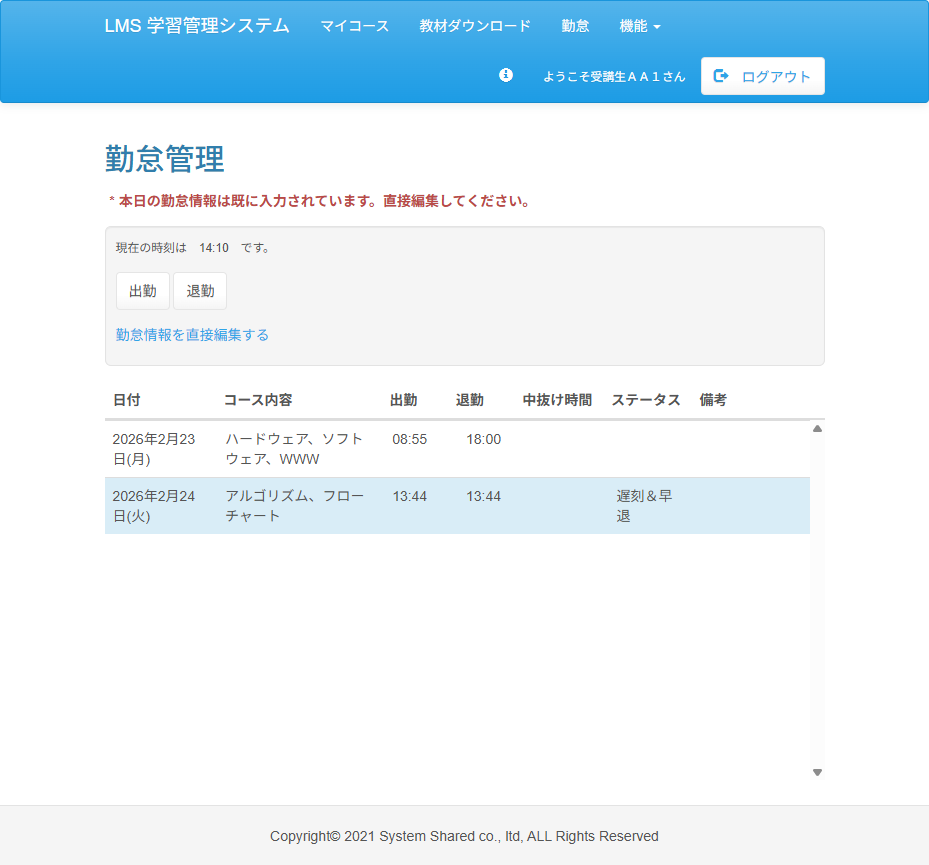
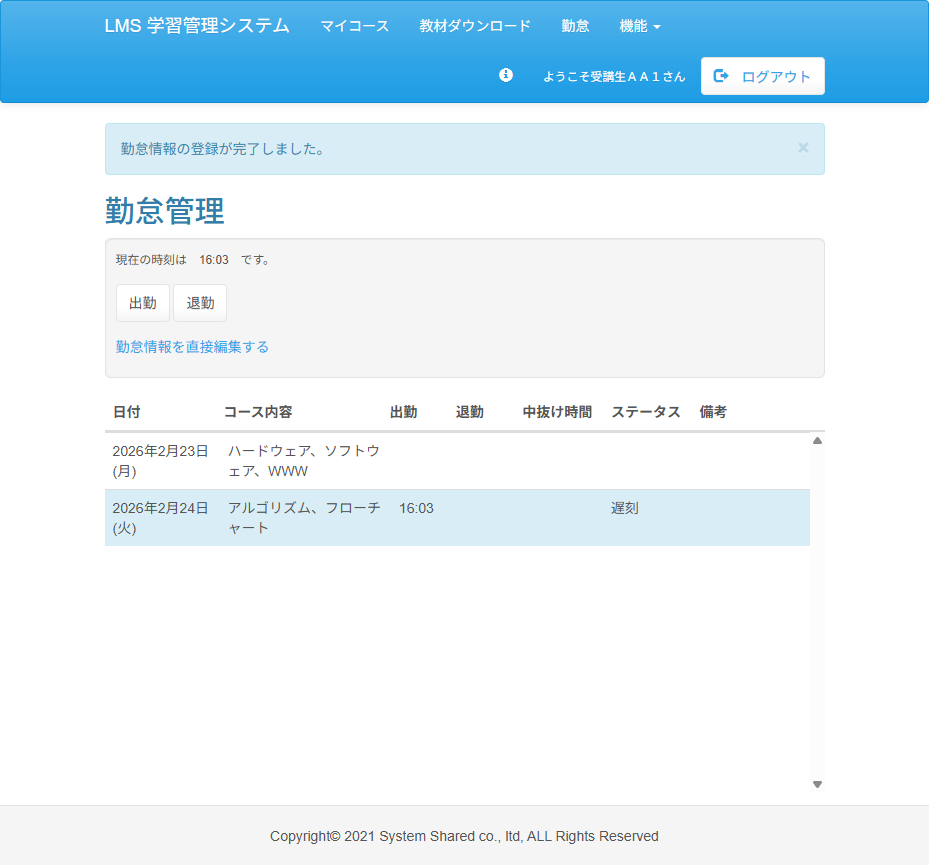
add:Case11.java 受講生勤怠直接編集正常系のテストコード作成
test01、02、03はCase10のtest01、02、03と同じため割愛

test04()メソッド
WebElementを利用し、「勤怠情報を直接編集する」リンクを押下し、勤怠情報直接変更画面に遷移
タイトルとURLが期待値通りかを確認するテストを作成した。
【期待値は以下の通り】
タイトル：勤怠情報変更｜LMS
URL：http://localhost:8000/lms/attendance/update

test05()メソッド
SelectとWebElementを利用し、以下の入力値を入力。
「更新」ボタンを押下し、勤怠管理画面に遷移。
タイトルと入力した値が期待値通りかを確認するテストを作成した。
【入力値は以下の通り】
2月23日
出勤(時)：08
出勤(分)：55
退勤(時)：18
退勤(分)：00

2月24日
「定時」ボタンを押下

【期待値は以下の通り】
タイトル：勤怠情報変更｜LMS
2月23日
出勤時間：08:55
退勤時間：18:00
2月24日
出勤時間：09:00
退勤時間：18:00

Changed region(s): [[0.0936, 0.437, 0.9053, 0.6555], [0.0936, 0.1249, 0.9053, 0.4058]]

diff --git a/test_code_creation_oshimayuki/src/test/java/jp/co/sss/lms/ct/f04_attendance/Case11.java b/test_code_creation_oshimayuki/src/test/java/jp/co/sss/lms/ct/f04_attendance/Case11.java
@@ -1,6 +1,7 @@
 package jp.co.sss.lms.ct.f04_attendance;
 
 import static jp.co.sss.lms.ct.util.WebDriverUtils.*;
+import static org.junit.jupiter.api.Assertions.*;
 
 import org.junit.jupiter.api.AfterAll;
 import org.junit.jupiter.api.BeforeAll;
@@ -9,6 +10,8 @@ import org.junit.jupiter.api.MethodOrderer.OrderAnnotation;
 import org.junit.jupiter.api.Order;
 import org.junit.jupiter.api.Test;
 import org.junit.jupiter.api.TestMethodOrder;
+import org.openqa.selenium.By;
+import org.openqa.selenium.support.ui.Select;
 
 /**
  * 結合テスト 勤怠管理機能
@@ -35,35 +38,90 @@ public class Case11 {
 	@Order(1)
 	@DisplayName("テスト01 トップページURLでアクセス")
 	void test01() {
-		// TODO ここに追加
+		webDriver.get("http://localhost:8000/lms");
+		assertEquals("ログイン | LMS", webDriver.getTitle());
+		assertEquals("ログイン", webDriver.findElement(By.tagName("h2")).getText());
+		getEvidence(new Object() {});
 	}
 
 	@Test
 	@Order(2)
 	@DisplayName("テスト02 初回ログイン済みの受講生ユーザーでログイン")
 	void test02() {
-		// TODO ここに追加
+		webDriver.findElement(By.id("loginId")).sendKeys("StudentAA01");
+		webDriver.findElement(By.id("password")).sendKeys("TestUser001");
+		webDriver.findElement(By.className("btn-primary")).click();
+
+		assertEquals("コース詳細 | LMS", webDriver.getTitle());
+		assertEquals("http://localhost:8000/lms/course/detail", webDriver.getCurrentUrl());
+		getEvidence(new Object() {});
 	}
 
 	@Test
 	@Order(3)
 	@DisplayName("テスト03 上部メニューの「勤怠」リンクから勤怠管理画面に遷移")
 	void test03() {
-		// TODO ここに追加
+		webDriver.findElement(By.linkText("勤怠")).click();
+		
+		pageLoadTimeout(30);
+	
+		webDriver.switchTo().alert().accept();
+		
+		pageLoadTimeout(20);
+		
+		assertEquals("勤怠情報変更｜LMS", webDriver.getTitle());
+		assertEquals("http://localhost:8000/lms/attendance/detail", webDriver.getCurrentUrl());
+		assertTrue(webDriver.findElement(By.tagName("td")).isDisplayed());
+		
+		getEvidence(new Object() {});
 	}
 
 	@Test
 	@Order(4)
 	@DisplayName("テスト04 「勤怠情報を直接編集する」リンクから勤怠情報直接変更画面に遷移")
 	void test04() {
-		// TODO ここに追加
+		webDriver.findElement(By.linkText("勤怠情報を直接編集する")).click();
+		
+		pageLoadTimeout(10);
+		
+		assertEquals("勤怠情報変更｜LMS", webDriver.getTitle());
+		assertEquals("http://localhost:8000/lms/attendance/update", webDriver.getCurrentUrl());
+		
+		getEvidence(new Object() {});
 	}
 
 	@Test
 	@Order(5)
 	@DisplayName("テスト05 すべての研修日程の勤怠情報を正しく更新し勤怠管理画面に遷移")
 	void test05() {
-		// TODO ここに追加
+		final Select selectStartHour = new Select(webDriver.findElement(By.xpath("//*[@id=\"startHour0\"]")));
+		selectStartHour.selectByVisibleText("08");
+		final Select selectStartMinute = new Select(webDriver.findElement(By.xpath("//*[@id=\"startMinute0\"]")));
+		selectStartMinute.selectByVisibleText("55");
+		
+		final Select selectEndHour = new Select(webDriver.findElement(By.xpath("//*[@id=\"endHour0\"]")));
+		selectEndHour.selectByVisibleText("18");
+		final Select selectEndMinute = new Select(webDriver.findElement(By.xpath("//*[@id=\"endMinute0\"]")));
+		selectEndMinute.selectByVisibleText("00");
+		
+		webDriver.findElement(By.xpath("//*[@id=\"main\"]/div/div/form/table/tbody/tr[2]/td[3]")).click();
+		
+		scrollBy("1200");
+		webDriver.findElement(By.name("complete")).click();
+		
+		pageLoadTimeout(30);
+		
+		webDriver.switchTo().alert().dismiss();
+		
+		pageLoadTimeout(30);
+		
+		assertEquals("勤怠情報変更｜LMS", webDriver.getTitle());
+		assertEquals("08:55", webDriver.findElement(By.xpath("//*[@id=\"main\"]/div[3]/div/table/tbody/tr[1]/td[3]")).getText());
+		assertEquals("18:00", webDriver.findElement(By.xpath("//*[@id=\"main\"]/div[3]/div/table/tbody/tr[1]/td[4]")).getText());
+		assertEquals("09:00", webDriver.findElement(By.xpath("//*[@id=\"main\"]/div[3]/div/table/tbody/tr[2]/td[3]")).getText());
+		assertEquals("18:00", webDriver.findElement(By.xpath("//*[@id=\"main\"]/div[3]/div/table/tbody/tr[2]/td[4]")).getText());
+		
+		getEvidence(new Object() {});
 	}
 
 }

diff --git a/test_code_creation_oshimayuki/src/test/java/jp/co/sss/lms/ct/f04_attendance/Case10.java b/test_code_creation_oshimayuki/src/test/java/jp/co/sss/lms/ct/f04_attendance/Case10.java
@@ -10,7 +10,6 @@ import org.junit.jupiter.api.MethodOrderer.OrderAnnotation;
 import org.junit.jupiter.api.Order;
 import org.junit.jupiter.api.Test;
 import org.junit.jupiter.api.TestMethodOrder;
-import org.openqa.selenium.Alert;
 import org.openqa.selenium.By;
 
 /**
@@ -65,8 +64,7 @@ public class Case10 {
 		
 		pageLoadTimeout(30);
 	
-		Alert alert = webDriver.switchTo().alert();
-		alert.accept();
+		webDriver.switchTo().alert().accept();
 		
 		pageLoadTimeout(20);
 		
@@ -85,13 +83,12 @@ public class Case10 {
 		
 		pageLoadTimeout(30);
 		
-		Alert alert = webDriver.switchTo().alert();
-		alert.dismiss();
+		webDriver.switchTo().alert().dismiss();
 		
-		pageLoadTimeout(20);
+		pageLoadTimeout(60);
 		
 		assertEquals("勤怠情報変更｜LMS", webDriver.getTitle());
-		assertTrue(webDriver.findElement(By.xpath("//*[@id=\"main\"]/div[2]/div/table/tbody/tr[2]/td[3]")).isDisplayed());
+		assertTrue(webDriver.findElement(By.xpath("//*[@id=\"main\"]/div[3]/div/table/tbody/tr[2]/td[3]")).isDisplayed());
 		
 		getEvidence(new Object() {});
 	}
@@ -104,13 +101,12 @@ public class Case10 {
 		
 		pageLoadTimeout(30);
 		
-		Alert alert = webDriver.switchTo().alert();
-		alert.dismiss();
+		webDriver.switchTo().alert().dismiss();
 		
-		pageLoadTimeout(20);
+		pageLoadTimeout(60);
 		
 		assertEquals("勤怠情報変更｜LMS", webDriver.getTitle());
-		assertTrue(webDriver.findElement(By.xpath("//*[@id=\"main\"]/div[2]/div/table/tbody/tr[2]/td[4]")).isDisplayed());
+		assertTrue(webDriver.findElement(By.xpath("//*[@id=\"main\"]/div[3]/div/table/tbody/tr[2]/td[4]")).isDisplayed());
 		
 		getEvidence(new Object() {});
 	}
